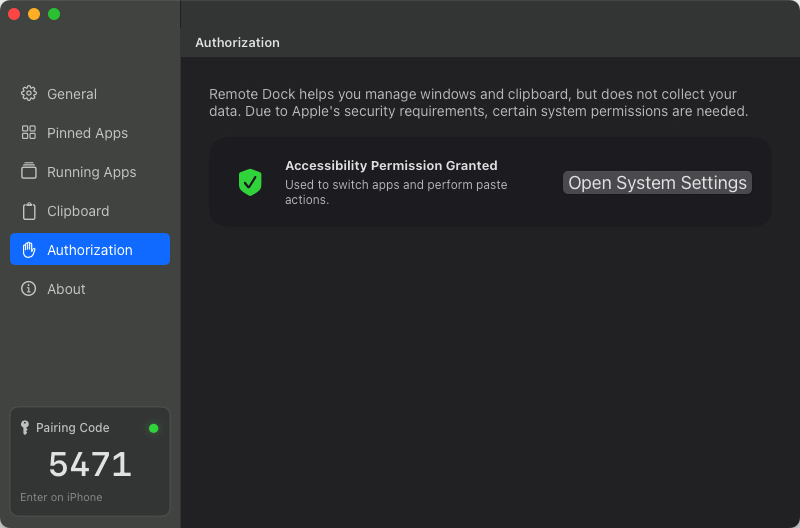
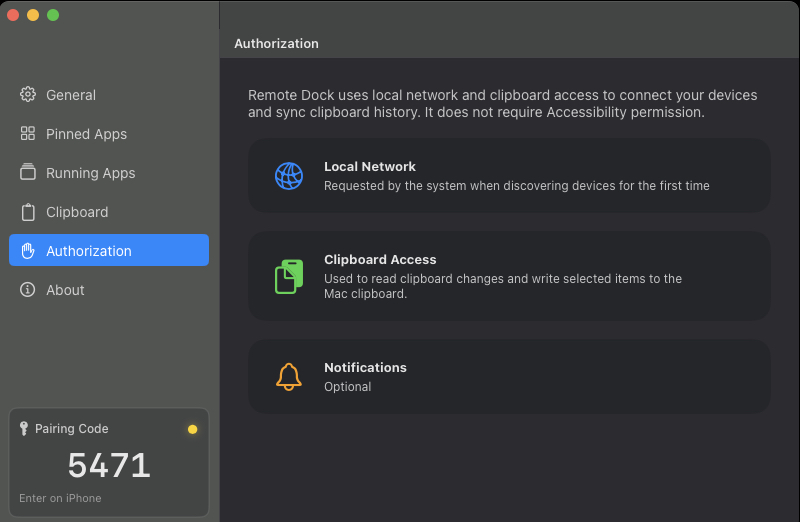
更新图片

diff --git a/index.html b/index.html
@@ -1882,6 +1882,13 @@
                 </div>
               </div>
               <div class="unique-item">
+                <div class="unique-icon">🔗</div>
+                <div class="unique-content">
+                  <h4>多选剪贴板内容快速拼接</h4>
+                  <p>按住 Shift 键连续选择多条剪贴板内容，一键合并发送</p>
+                </div>
+              </div>
+              <div class="unique-item">
                 <div class="unique-icon">📏</div>
                 <div class="unique-content">
                   <h4>剪贴浮窗可调整</h4>
@@ -1893,13 +1900,6 @@
                 <div class="unique-content">
                   <h4>应用管理高可定制化</h4>
                   <p>当前应用列表可配置隐藏不需要展示的应用</p>
-                </div>
-              </div>
-              <div class="unique-item">
-                <div class="unique-icon">🔗</div>
-                <div class="unique-content">
-                  <h4>多选剪贴板内容快速拼接</h4>
-                  <p>按住 Shift 键连续选择多条剪贴板内容，一键合并发送</p>
                 </div>
               </div>
               <div class="unique-item">
@@ -2150,14 +2150,6 @@
                 access
               </p>
             </div>
-            <div class="feature-card">
-              <div class="feature-icon">🔗</div>
-              <h3 class="feature-title">Multi-Select Clipboard Merge</h3>
-              <p class="feature-desc">
-                Hold Shift to select multiple clipboard items, merge them with
-                one keystroke, and paste as combined text
-              </p>
-            </div>
           </div>
         </div>
       </section>
@@ -2301,6 +2293,15 @@
                 <div class="unique-content">
                   <h4>Copy History Pinyin Search</h4>
                   <p>Search recently copied items using Chinese Pinyin</p>
+                </div>
+              </div>
+              <div class="unique-item">
+                <div class="unique-icon">🔗</div>
+                <div class="unique-content">
+                  <h4>Multi-Select Clipboard Merge</h4>
+                  <p>
+                    Hold Shift to select multiple clipboard items, merge them with one keystroke
+                  </p>
                 </div>
               </div>
               <div class="unique-item">
